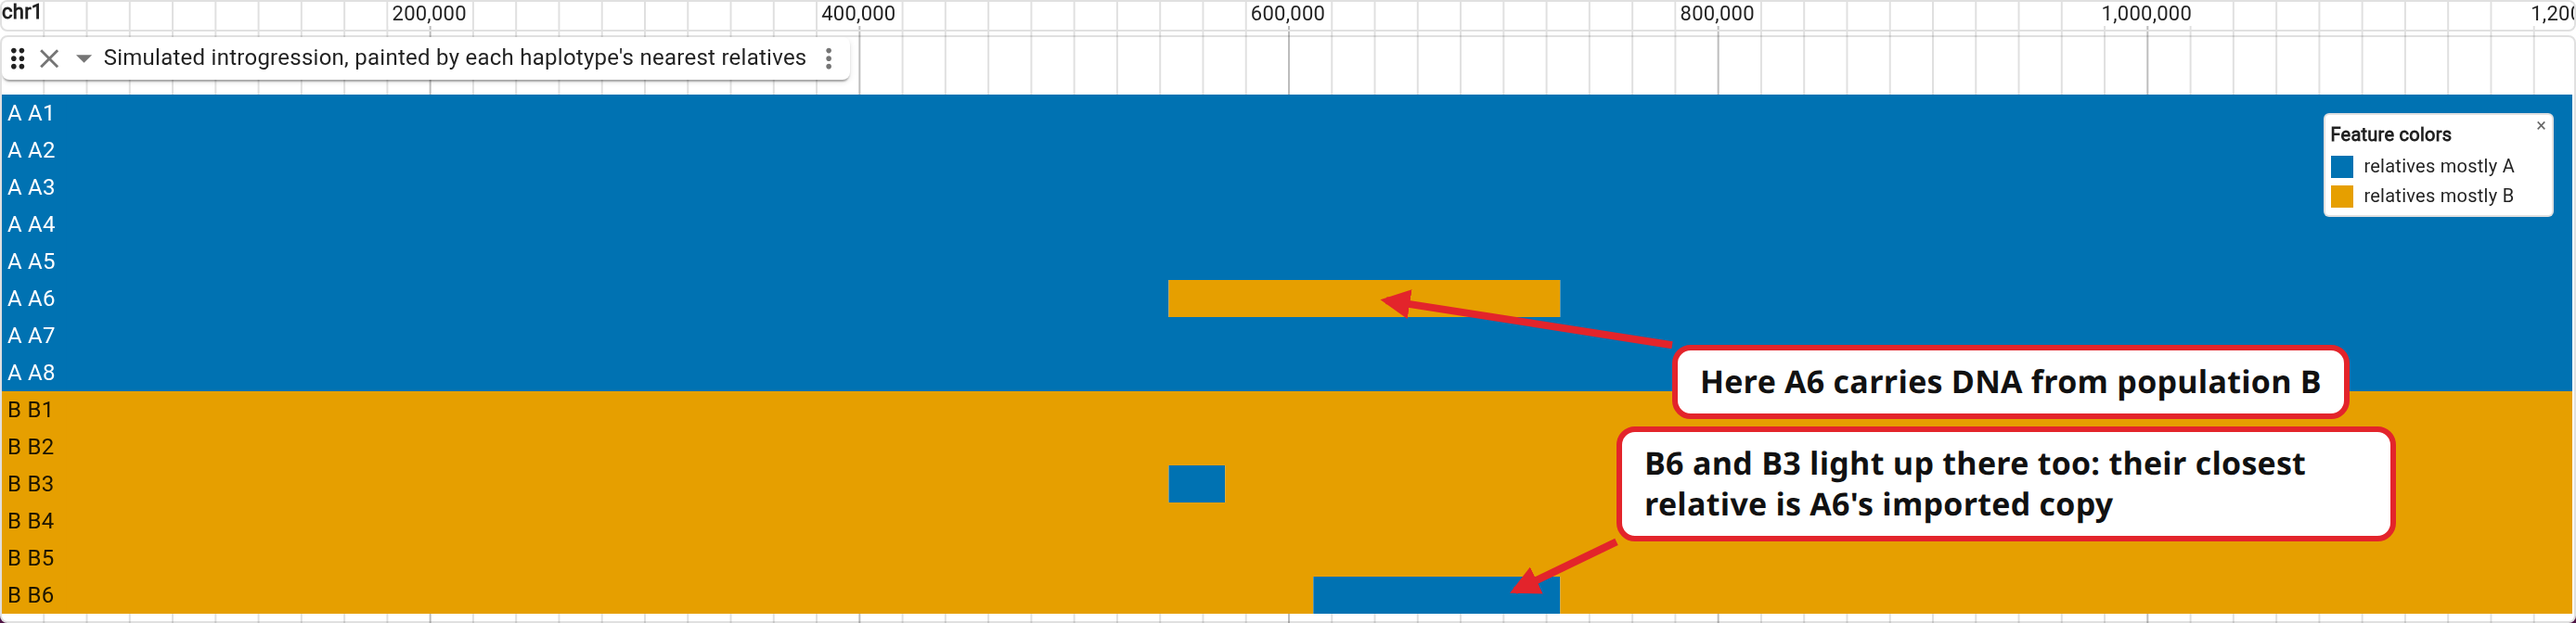
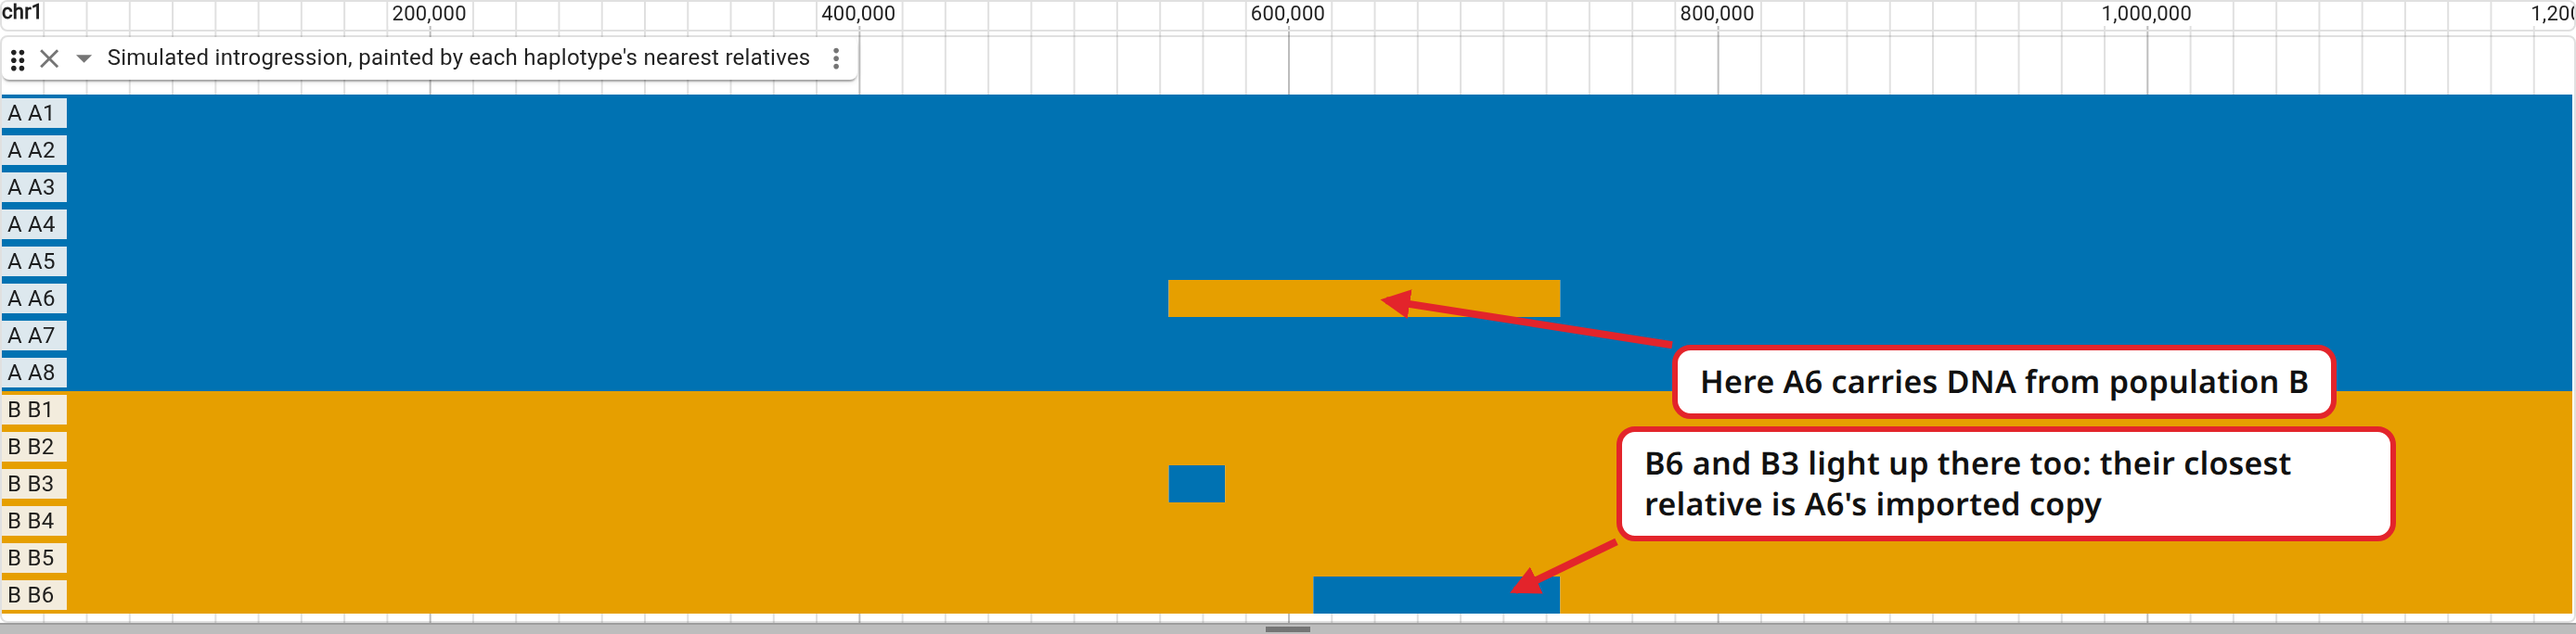
docs: reshoot the README figures; name the painting's rows with rows.field

diff --git a/docs/introgression.md b/docs/introgression.md
@@ -53,7 +53,7 @@ clustering, the legend, tooltips and SVG export come from core:
     {
       "type": "LinearMultiRowFeatureDisplay",
       "displayId": "my_painting-LinearMultiRowFeatureDisplay",
-      "partitionField": "row",
+      "rows": { "field": "row" },
       "color": "jexl:get(feature,'color')"
     }
   ]
